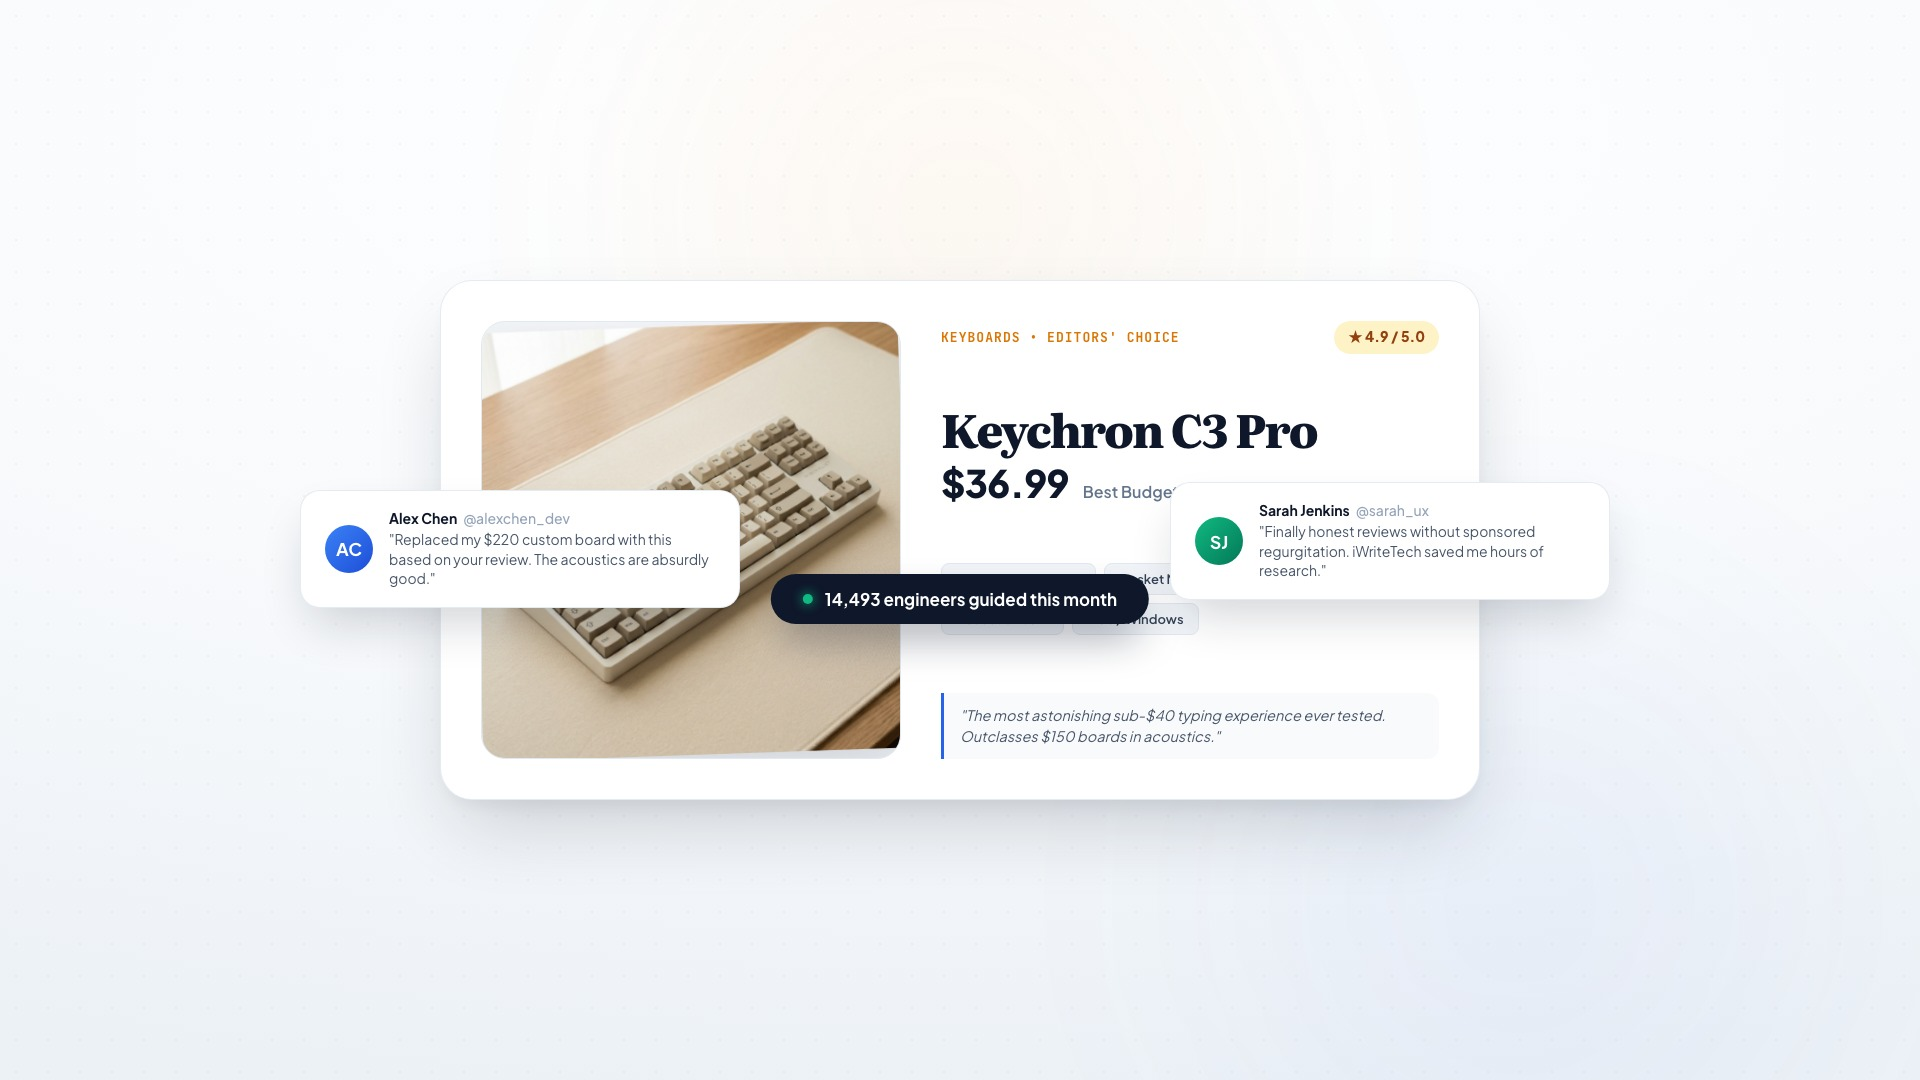
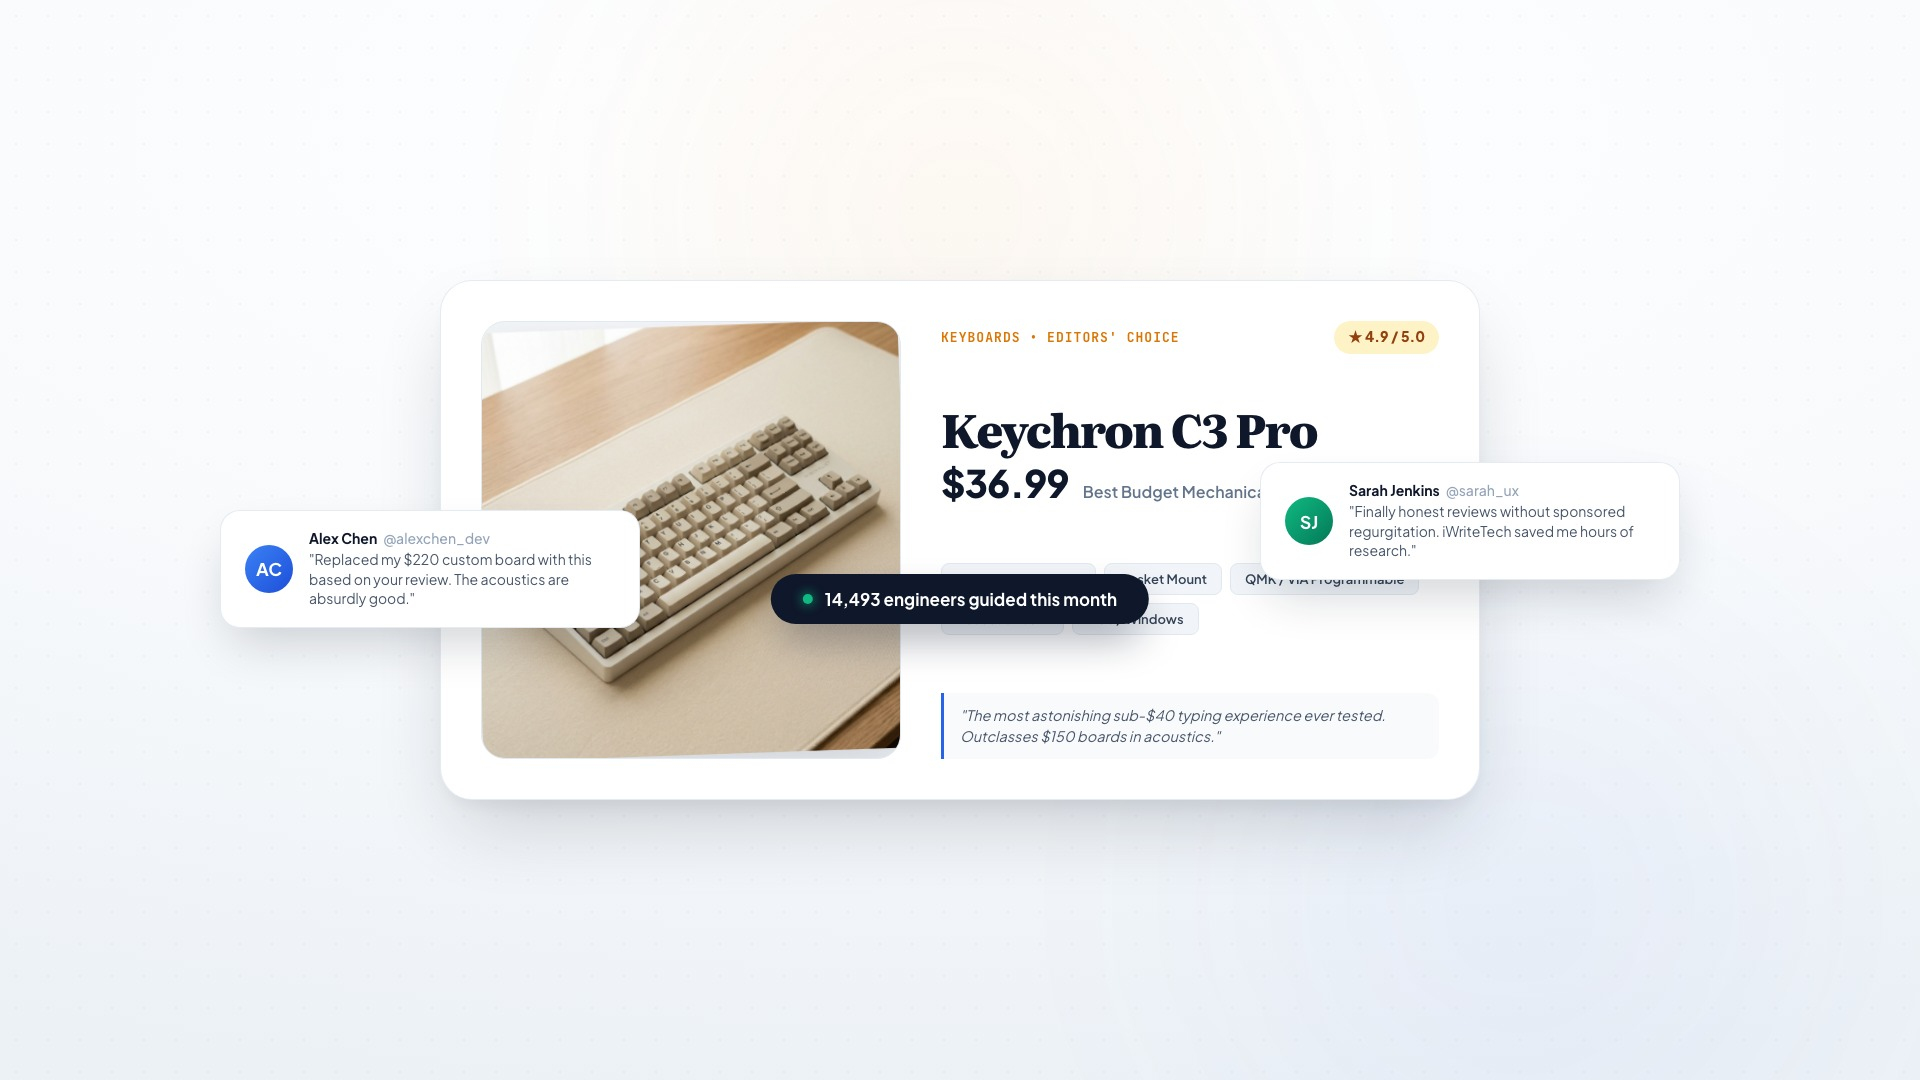
style: configure height and inset for center stage and product hero card elements

Changed region(s): [[0.125, 0.4278, 0.4062, 0.5806], [0.625, 0.4278, 0.8438, 0.5806], [0.125, 0.5806, 0.1562, 0.6111]]

diff --git a/brag-output/composition/index.html b/brag-output/composition/index.html
@@ -184,6 +184,7 @@
   .macro-center-stage {
     position: relative;
     width: 1040px;
+    height: 520px;
     display: flex;
     flex-direction: column;
     align-items: center;
@@ -253,6 +254,7 @@
   /* Product Card Morph */
   .product-hero-card {
     position: absolute;
+    inset: 0;
     width: 1040px;
     height: 520px;
     background: #FFFFFF;
